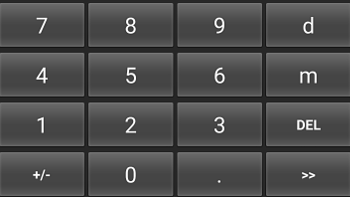
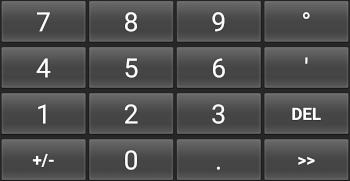
page_keypad.htm: traduzida

diff --git a/page_keypad.htm b/page_keypad.htm
@@ -1,24 +1,40 @@
-<html><body>
+<html>
+    <body>
+        <link rel="stylesheet" href="manual.css">
+        <h1>Teclados</h1>
 
-<h3>TopoDroid KEYPADS</h3>
+        <p>O TopoDroidX oferece um teclado numérico e um teclado "qwerty" simples.</p>
 
-TopoDroid comes with a numerical keypad and a simple "qwerty" keyboard.<br><p>
+        <p>O teclado numérico é usado para digitar valores numéricos (comprimentos, ângulos, etc.).
+        Tem os dez dígitos, o ponto decimal e um botão apra trocar o sinal (mais/menos).
+        Na entrada de coordenadas, conta também com teclas para grau (°) e minutos (').</p>
 
-The numerical keypad is used for numerical values (lengths, angles, etc.).
-It has the ten digits, the decimal point, and the plus/minus sign.
-For the input of coordinates it has also the degree (°) and minute (') keys.<br><p>
+        <p><img src="kbd-ddmmss.png" alt="numerical keypad"></p>
 
-The qwerty keyboard is used for station names. It has the ten digits, the 26 letters of the latin alphabet (lowercase and uppercase), and the period ('.').<br><p>
+        <p>O teclado qwerty é usado para nomes de bases.
+        Tem dez dígitos, as 26 letras do alfabeto latino (minúsculas e maiúsculas) e o ponto (.).</p>
 
-These keypads are enabled by default. They can be enabled/disabled through a settings of the <u>Main window</u>.<br><p>
+        <p><img src="kbd-qwerty.png" alt="qwerty keypad"></p>
 
-<b>Note</b>. 
-TopoDroid keypads are not Android IME (Input Method Editor).
-If the <u>no-cursor</u> setting is not enabled,
-the cursor position is at the right end of the input and is denoted by an underscore '_'.<br><p>
+        <p>Estes teclados são oferecidos por padrão.
+        Podem ser habilitados e desabilitados através da configuração <i>Teclado</i> da tela <u>Principal</u>.</p>
 
-<img src="kbd-ddmmss.png" alt="numerical keypad"><br><p>
-<img src="kbd-qwerty.png" alt="qwerty keypad"><br>
-<p>
+        <h2>Observação</h2>
 
-</body></html>
+        <p>Os teclados do TopoDroidX não são IMEs do Android (<i>Input Method Editor</i>).
+        A posição inicial do curso é na extremidade direita do campo de entrada.
+        Se a opção de configuração <i>Sem cursor</i> não estiver habilitada, ele será representado por um sublinhado (_).</p>
+
+        <p>
+            <a href="manual16.htm">Principais funcionalidades</a> |
+            <a href="manual17.htm">Índice remissivo</a>
+        </p>
+
+        <footer style="font-size: 80%; font-style: italic; clear: both;">
+            <p style="margin:0;">Última atualização: <span id="last-update-date" style="font-style: normal;">2023-10-10</span></p>
+            <p style="margin:0 0 10px 0;">Referente ao commit: <span id="last-update-commit" style="font-style: normal;">8223d431a</span></p>
+            <p style="margin:0;">Tradução: <span id="translation" style="font-style: normal;">Rodrigo Severo<i> &lt;rsev@pm.me&gt;</i></span></p>
+        </footer>
+
+    </body>
+</html>

diff --git a/page_import.htm b/page_import.htm
@@ -27,7 +27,9 @@
             <li><i>Visada antes de EDTC</i>: quando habilitada, as medidas EDTC são importadas após a respectiva visada.</li>
         </ul>
 
-        <p><b>Obs.</b>: a importação pode falhar (e derrubar o APP) devido a um erro no banco de dados que o TopoDroidX não consiga interceptar.</p>
+        <h3>Observação</h3>
+        
+        <p>a importação pode falhar (e derrubar o APP) devido a um erro no banco de dados que o TopoDroidX não consiga interceptar.</p>
 
         <p>
             <a href="manual16.htm">Principais funcionalidades</a> |
@@ -35,8 +37,8 @@
         </p>
 
         <footer style="font-size: 80%; font-style: italic; clear: both;">
-            <p style="margin:0;">Última atualização: <span id="last-update-date" style="font-style: normal;">2023-10-03</span></p>
-            <p style="margin:0 0 10px 0;">Referente ao commit: <span id="last-update-commit" style="font-style: normal;">a54ee631d</span></p>
+            <p style="margin:0;">Última atualização: <span id="last-update-date" style="font-style: normal;">2023-10-10</span></p>
+            <p style="margin:0 0 10px 0;">Referente ao commit: <span id="last-update-commit" style="font-style: normal;">8223d431a</span></p>
             <p style="margin:0;">Tradução: <span id="translation" style="font-style: normal;">Rodrigo Severo<i> &lt;rsev@pm.me&gt;</i></span></p>
         </footer>
     
